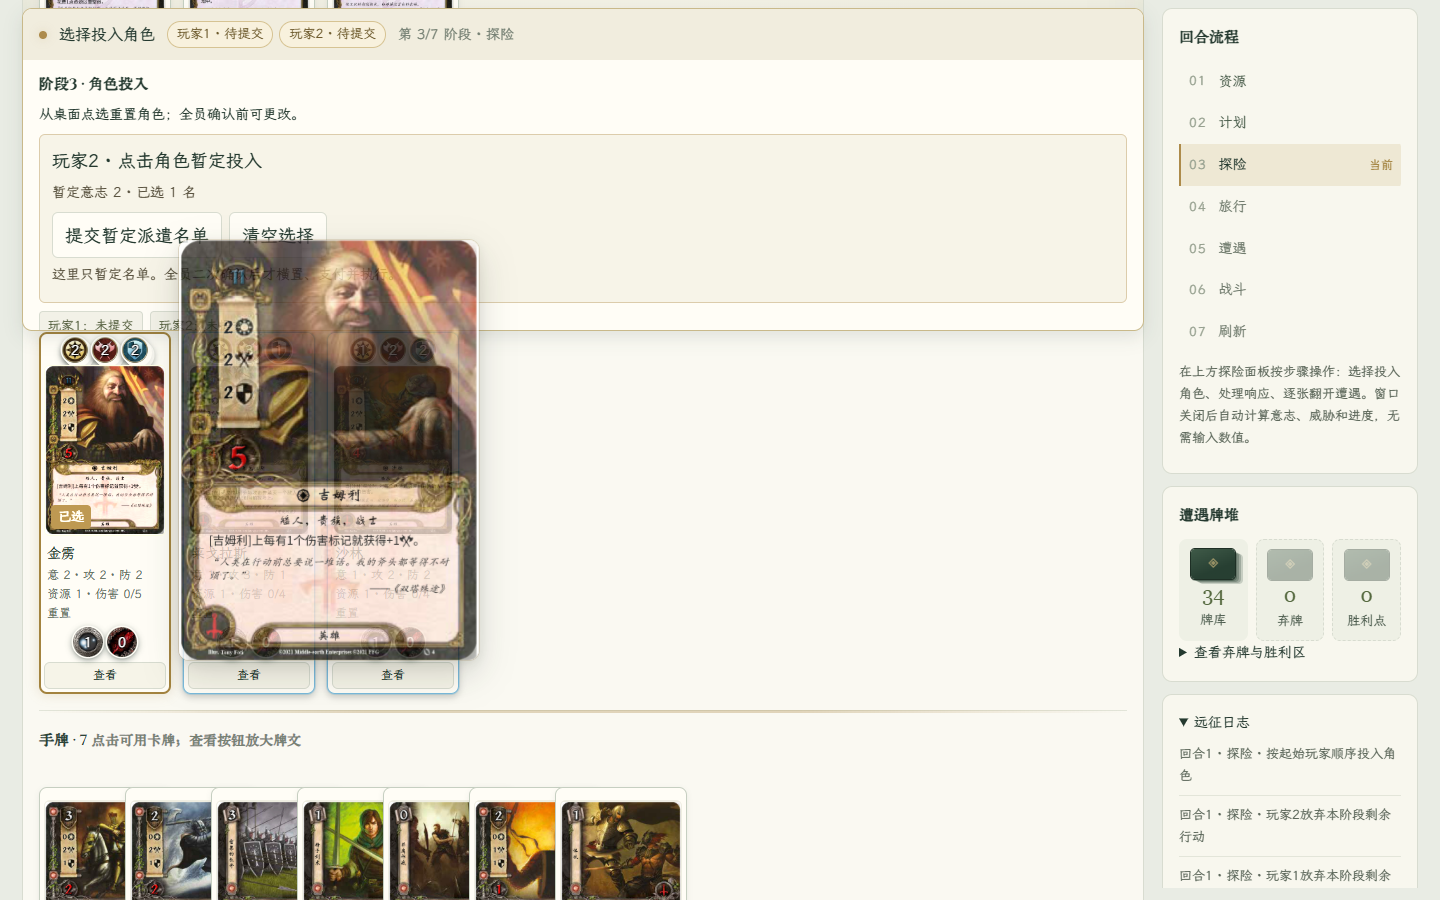
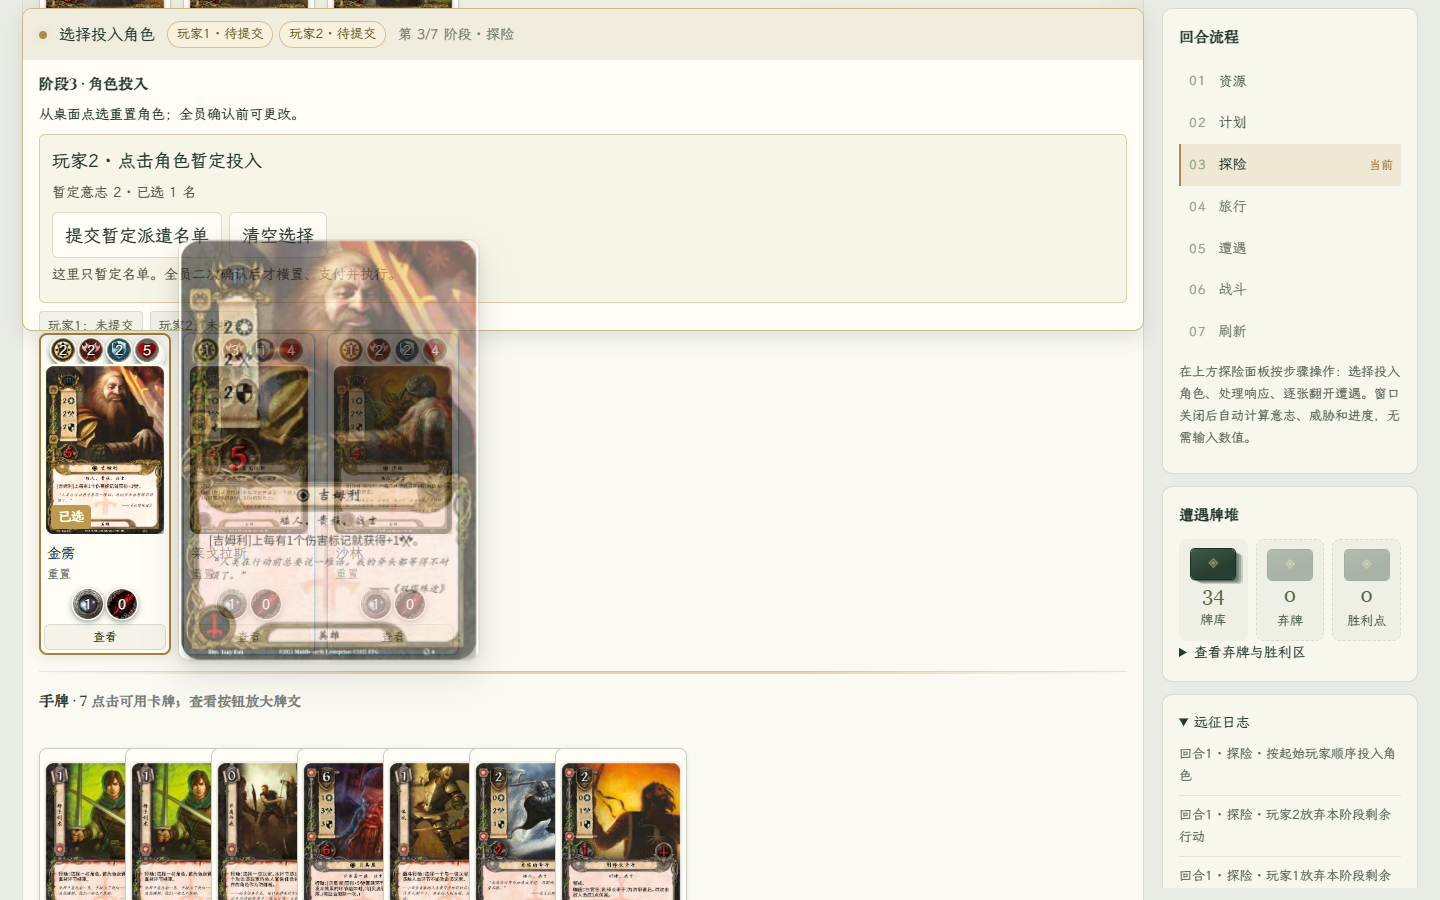
v0.15.37 角色卡数值去重：顶部属性代币补生命，删除重复的文字属性行，数值并入 aria-label

Changed region(s): [[0.0312, 0.2489, 0.6562, 1.0], [0.0312, 0.0, 0.3125, 0.0311]]

diff --git a/index.html b/index.html
@@ -468,7 +468,7 @@ body:has(.desktop-table) .expedition-title h1{letter-spacing:-.01em}
       状态代币（资源/伤害/进度）独立一行在卡牌下方——均为流式行，不再遮挡卡名与牌文；
       同型多枚层叠错位；资源=英雄常显、盟友>0 显，伤害/进度常显（含 0，对齐原版）。 */
 .card-tokens{display:flex;gap:4px;justify-content:center;align-items:center;flex-wrap:wrap;padding:2px 0;pointer-events:none;--tk:30px}
-.card-tokens.attr-tokens{--tk:26px;padding-top:0}
+.card-tokens.attr-tokens{--tk:24px;padding-top:0}
 .tk{position:relative;width:var(--tk);height:var(--tk);flex:none;border-radius:50%;filter:drop-shadow(0 2px 3px #24392f66)}
 .tk img{width:100%;height:100%;border-radius:50%;display:block;box-shadow:0 0 0 1.5px #fffdf6,0 1px 3px #0008}
 .tk b{position:absolute;inset:0;display:grid;place-items:center;font-size:14px;font-weight:800;color:#fff;line-height:1;font-variant-numeric:tabular-nums;text-shadow:0 1px 1px #000,0 0 3px #000c,1px 0 1px #000a,-1px 0 1px #000a,0 -1px 1px #000a}
@@ -476,11 +476,11 @@ body:has(.desktop-table) .expedition-title h1{letter-spacing:-.01em}
 .tk img:active{cursor:grabbing}
 .tk img:hover{cursor:grab}
 .peer-cards .card-tokens{--tk:24px}
-.peer-cards .card-tokens.attr-tokens{--tk:22px}
+.peer-cards .card-tokens.attr-tokens{--tk:20px}
 .quest-art-wrap{position:relative;width:var(--card-w);min-width:0;flex:none}
 .quest-tokens{position:absolute;left:4px;bottom:4px;transform:none}
-@media(min-width:1700px){.card-tokens{--tk:34px}.card-tokens.attr-tokens{--tk:28px}.peer-cards .card-tokens{--tk:28px}}
-@media(max-width:1100px){.card-tokens{--tk:26px}.card-tokens.attr-tokens{--tk:23px}}
+@media(min-width:1700px){.card-tokens{--tk:34px}.card-tokens.attr-tokens{--tk:26px}.peer-cards .card-tokens{--tk:28px}}
+@media(max-width:1100px){.card-tokens{--tk:26px}.card-tokens.attr-tokens{--tk:22px}}
 @media(max-width:760px){.card-tokens{--tk:24px}}
 
 </style></head><body>
@@ -8690,7 +8690,7 @@ const WindowUI=(()=>{
 </script><script>
 /* Tabletop view: UI drafts never pay, exhaust, reveal, or bypass phase validation. */
 /* 界面版本徽标唯一来源：须与 CHANGELOG.md 最新条目标题一致（planning-dom-tests 有校验）。 */
-const APP_VERSION='v0.15.36';
+const APP_VERSION='v0.15.37';
 const DesktopUI=(()=>{
  const E=ScenarioEngine,R=E.planning,Q=E.questing,C=E.combat,esc=x=>String(x??'').replace(/[&<>"']/g,c=>({'&':'&amp;','<':'&lt;','>':'&gt;','"':'&quot;',"'":'&#39;'}[c]));
  let combatDraft={key:'',target:null,ids:[]},draftState=null;
@@ -8713,7 +8713,7 @@ const DesktopUI=(()=>{
  function art(code){const rec=ImageLibrary.by[code],url=ImageLibrary.safeUrl(rec?.faces?.B||rec?.imageUrl);return url?`<img src="${esc(url)}" alt="${esc(rec.nameZhCard||rec.name||code)}" loading="lazy" referrerpolicy="no-referrer">`:'<span class="table-card-fallback">卡图暂缺<br>请查看牌名与数值</span>';}
  function inspect(code){return `<button class="inspect-card" data-action="images" data-image-action="open" data-code="${esc(code)}" aria-label="查看卡牌详情">查看</button>`;}
  function character(s,c,m){const h=c.state,v=R.find(s,c.uid)?R.stats(s,c.uid):c.meta,selectable=eligible(s,m,c.uid),selected=!!m&&ids(s,m).includes(c.uid),ability=R.abilitySpec(s,c.controller,c.uid),a=selectable?'data-action="desktop" data-desktop="pick"':!m&&ability.legal?'data-action="planning" data-plan="ability"':'',captured=c.kind==='hero'&&!s.rescued&&s.prisoner?.player===c.controller&&s.prisoner?.hero===h.index;
-  return `<article class="table-card character-card ${h.exhausted?'exhausted':''} ${selectable?'selectable':''} ${selected?'selected':''} ${h.destroyed||captured?'unavailable':''}" data-card-uid="${c.uid}">${tokenRow('attr-tokens',tk('willpower',v.willpower||0,false)+tk('attack',v.attack||0,false)+tk('defense',v.defense||0,false))}<button class="card-face" ${a} data-player="${c.controller}" data-uid="${c.uid}" ${a?'':'disabled'} aria-label="${esc(c.meta.nameZh)}${selectable?'，点击选择':''}" aria-pressed="${selected}">${art(c.meta.code)}${selected?'<span class="selection-mark">已选</span>':''}</button><div class="table-card-caption"><b>${esc(c.meta.nameZh)}</b><span>意 ${v.willpower||0} · 攻 ${v.attack||0} · 防 ${v.defense||0}</span><span>${c.kind==='hero'?'资源 '+h.resources+' · ':''}伤害 ${h.damage||0}/${v.health||0}</span><span>${h.destroyed?'已离场':captured?'囚禁':h.exhausted?'横置':'重置'}${h.committed?' · 已投入':''}</span></div>${tokenRow('state-tokens',c.kind==='hero'?tk('resource',h.resources||0)+tk('damage',h.damage||0):tk('damage',h.damage||0))}${inspect(c.meta.code)}</article>`;
+  return `<article class="table-card character-card ${h.exhausted?'exhausted':''} ${selectable?'selectable':''} ${selected?'selected':''} ${h.destroyed||captured?'unavailable':''}" data-card-uid="${c.uid}" aria-label="${esc(c.meta.nameZh)}：意志 ${v.willpower||0} 攻击 ${v.attack||0} 防御 ${v.defense||0} 生命 ${v.health||0}${c.kind==='hero'?' 资源 '+(h.resources||0):''} 伤害 ${h.damage||0}${selectable?'，点击选择':''}">${tokenRow('attr-tokens',tk('willpower',v.willpower||0,false)+tk('attack',v.attack||0,false)+tk('defense',v.defense||0,false)+tk('hitPoints',v.health||0,false))}<button class="card-face" ${a} data-player="${c.controller}" data-uid="${c.uid}" ${a?'':'disabled'} aria-label="${esc(c.meta.nameZh)}${selectable?'，点击选择':''}" aria-pressed="${selected}">${art(c.meta.code)}${selected?'<span class="selection-mark">已选</span>':''}</button><div class="table-card-caption"><b>${esc(c.meta.nameZh)}</b>${c.kind!=='hero'&&h.resources?`<span>资源 ${h.resources}</span>`:''}<span>${h.destroyed?'已离场':captured?'囚禁':h.exhausted?'横置':'重置'}${h.committed?' · 已投入':''}</span></div>${tokenRow('state-tokens',c.kind==='hero'?tk('resource',h.resources||0)+tk('damage',h.damage||0):tk('damage',h.damage||0))}${inspect(c.meta.code)}</article>`;
  }
  function playerChars(s,p){return [...p.heroStates.map(h=>({kind:'hero',uid:h.uid,controller:p.id,owner:p.id,state:h,meta:R.data(s,{...h,owner:p.id})})),...p.allies.map(c=>({kind:'ally',uid:c.uid,controller:p.id,owner:c.owner,state:c,meta:R.data(s,c)}))];}
  function encounter(s,c,zone,m){const found=R.find(s,c.uid),v=found?R.stats(s,c.uid):c;let attrs='',legal=false,selected=false;

diff --git a/desktop-ui.js b/desktop-ui.js
@@ -1,6 +1,6 @@
 /* Tabletop view: UI drafts never pay, exhaust, reveal, or bypass phase validation. */
 /* 界面版本徽标唯一来源：须与 CHANGELOG.md 最新条目标题一致（planning-dom-tests 有校验）。 */
-const APP_VERSION='v0.15.36';
+const APP_VERSION='v0.15.37';
 const DesktopUI=(()=>{
  const E=ScenarioEngine,R=E.planning,Q=E.questing,C=E.combat,esc=x=>String(x??'').replace(/[&<>"']/g,c=>({'&':'&amp;','<':'&lt;','>':'&gt;','"':'&quot;',"'":'&#39;'}[c]));
  let combatDraft={key:'',target:null,ids:[]},draftState=null;
@@ -23,7 +23,7 @@ const DesktopUI=(()=>{
  function art(code){const rec=ImageLibrary.by[code],url=ImageLibrary.safeUrl(rec?.faces?.B||rec?.imageUrl);return url?`<img src="${esc(url)}" alt="${esc(rec.nameZhCard||rec.name||code)}" loading="lazy" referrerpolicy="no-referrer">`:'<span class="table-card-fallback">卡图暂缺<br>请查看牌名与数值</span>';}
  function inspect(code){return `<button class="inspect-card" data-action="images" data-image-action="open" data-code="${esc(code)}" aria-label="查看卡牌详情">查看</button>`;}
  function character(s,c,m){const h=c.state,v=R.find(s,c.uid)?R.stats(s,c.uid):c.meta,selectable=eligible(s,m,c.uid),selected=!!m&&ids(s,m).includes(c.uid),ability=R.abilitySpec(s,c.controller,c.uid),a=selectable?'data-action="desktop" data-desktop="pick"':!m&&ability.legal?'data-action="planning" data-plan="ability"':'',captured=c.kind==='hero'&&!s.rescued&&s.prisoner?.player===c.controller&&s.prisoner?.hero===h.index;
-  return `<article class="table-card character-card ${h.exhausted?'exhausted':''} ${selectable?'selectable':''} ${selected?'selected':''} ${h.destroyed||captured?'unavailable':''}" data-card-uid="${c.uid}">${tokenRow('attr-tokens',tk('willpower',v.willpower||0,false)+tk('attack',v.attack||0,false)+tk('defense',v.defense||0,false))}<button class="card-face" ${a} data-player="${c.controller}" data-uid="${c.uid}" ${a?'':'disabled'} aria-label="${esc(c.meta.nameZh)}${selectable?'，点击选择':''}" aria-pressed="${selected}">${art(c.meta.code)}${selected?'<span class="selection-mark">已选</span>':''}</button><div class="table-card-caption"><b>${esc(c.meta.nameZh)}</b><span>意 ${v.willpower||0} · 攻 ${v.attack||0} · 防 ${v.defense||0}</span><span>${c.kind==='hero'?'资源 '+h.resources+' · ':''}伤害 ${h.damage||0}/${v.health||0}</span><span>${h.destroyed?'已离场':captured?'囚禁':h.exhausted?'横置':'重置'}${h.committed?' · 已投入':''}</span></div>${tokenRow('state-tokens',c.kind==='hero'?tk('resource',h.resources||0)+tk('damage',h.damage||0):tk('damage',h.damage||0))}${inspect(c.meta.code)}</article>`;
+  return `<article class="table-card character-card ${h.exhausted?'exhausted':''} ${selectable?'selectable':''} ${selected?'selected':''} ${h.destroyed||captured?'unavailable':''}" data-card-uid="${c.uid}" aria-label="${esc(c.meta.nameZh)}：意志 ${v.willpower||0} 攻击 ${v.attack||0} 防御 ${v.defense||0} 生命 ${v.health||0}${c.kind==='hero'?' 资源 '+(h.resources||0):''} 伤害 ${h.damage||0}${selectable?'，点击选择':''}">${tokenRow('attr-tokens',tk('willpower',v.willpower||0,false)+tk('attack',v.attack||0,false)+tk('defense',v.defense||0,false)+tk('hitPoints',v.health||0,false))}<button class="card-face" ${a} data-player="${c.controller}" data-uid="${c.uid}" ${a?'':'disabled'} aria-label="${esc(c.meta.nameZh)}${selectable?'，点击选择':''}" aria-pressed="${selected}">${art(c.meta.code)}${selected?'<span class="selection-mark">已选</span>':''}</button><div class="table-card-caption"><b>${esc(c.meta.nameZh)}</b>${c.kind!=='hero'&&h.resources?`<span>资源 ${h.resources}</span>`:''}<span>${h.destroyed?'已离场':captured?'囚禁':h.exhausted?'横置':'重置'}${h.committed?' · 已投入':''}</span></div>${tokenRow('state-tokens',c.kind==='hero'?tk('resource',h.resources||0)+tk('damage',h.damage||0):tk('damage',h.damage||0))}${inspect(c.meta.code)}</article>`;
  }
  function playerChars(s,p){return [...p.heroStates.map(h=>({kind:'hero',uid:h.uid,controller:p.id,owner:p.id,state:h,meta:R.data(s,{...h,owner:p.id})})),...p.allies.map(c=>({kind:'ally',uid:c.uid,controller:p.id,owner:c.owner,state:c,meta:R.data(s,c)}))];}
  function encounter(s,c,zone,m){const found=R.find(s,c.uid),v=found?R.stats(s,c.uid):c;let attrs='',legal=false,selected=false;

diff --git a/style.css b/style.css
@@ -466,7 +466,7 @@ body:has(.desktop-table) .expedition-title h1{letter-spacing:-.01em}
       状态代币（资源/伤害/进度）独立一行在卡牌下方——均为流式行，不再遮挡卡名与牌文；
       同型多枚层叠错位；资源=英雄常显、盟友>0 显，伤害/进度常显（含 0，对齐原版）。 */
 .card-tokens{display:flex;gap:4px;justify-content:center;align-items:center;flex-wrap:wrap;padding:2px 0;pointer-events:none;--tk:30px}
-.card-tokens.attr-tokens{--tk:26px;padding-top:0}
+.card-tokens.attr-tokens{--tk:24px;padding-top:0}
 .tk{position:relative;width:var(--tk);height:var(--tk);flex:none;border-radius:50%;filter:drop-shadow(0 2px 3px #24392f66)}
 .tk img{width:100%;height:100%;border-radius:50%;display:block;box-shadow:0 0 0 1.5px #fffdf6,0 1px 3px #0008}
 .tk b{position:absolute;inset:0;display:grid;place-items:center;font-size:14px;font-weight:800;color:#fff;line-height:1;font-variant-numeric:tabular-nums;text-shadow:0 1px 1px #000,0 0 3px #000c,1px 0 1px #000a,-1px 0 1px #000a,0 -1px 1px #000a}
@@ -474,9 +474,9 @@ body:has(.desktop-table) .expedition-title h1{letter-spacing:-.01em}
 .tk img:active{cursor:grabbing}
 .tk img:hover{cursor:grab}
 .peer-cards .card-tokens{--tk:24px}
-.peer-cards .card-tokens.attr-tokens{--tk:22px}
+.peer-cards .card-tokens.attr-tokens{--tk:20px}
 .quest-art-wrap{position:relative;width:var(--card-w);min-width:0;flex:none}
 .quest-tokens{position:absolute;left:4px;bottom:4px;transform:none}
-@media(min-width:1700px){.card-tokens{--tk:34px}.card-tokens.attr-tokens{--tk:28px}.peer-cards .card-tokens{--tk:28px}}
-@media(max-width:1100px){.card-tokens{--tk:26px}.card-tokens.attr-tokens{--tk:23px}}
+@media(min-width:1700px){.card-tokens{--tk:34px}.card-tokens.attr-tokens{--tk:26px}.peer-cards .card-tokens{--tk:28px}}
+@media(max-width:1100px){.card-tokens{--tk:26px}.card-tokens.attr-tokens{--tk:22px}}
 @media(max-width:760px){.card-tokens{--tk:24px}}

diff --git a/CHANGELOG.md b/CHANGELOG.md
@@ -1,3 +1,9 @@
+# v0.15.37 · 角色卡数值去重：代币取代文字行（2026-10-23）
+
+- **删除重复文字**：角色卡说明区不再重复「意 X · 攻 X · 防 X」与「伤害 X/Y」——顶部属性代币（意志/攻击/防御）与底部状态代币（资源/伤害）已完整覆盖这些数值。
+- **新增生命代币**：伤害 X/Y 的分母（生命上限）原先只在文字里，现顶部属性代币补第 4 枚「生命」（`hitPoints.png`，与诡镇网页版顶部四枚一致），属性代币尺寸缩至 24px 以内保证单行不换行。
+- **无障碍补齐**：数值行删除后，整卡 `aria-label` 汇总全部数值（意志/攻击/防御/生命/资源/伤害），读屏不再丢信息；盟友有资源时保留一行文字「资源 X」（资源代币按 v0.15.36 约定仅英雄显示）。
+
 # v0.15.36 · 字号再放大 + 资源代币仅英雄（2026-10-23）
 
 - **字号再调大两号**：`body` 16→**18px**（行高 1.7），小号文本再整体 +1px（卡牌说明 11→12px 等），`h2` 19px、`h3` 16px、眉题 13px。布局保持不变（卡宽/网格/侧栏未动，check-layout 与横向溢出检查通过）。
